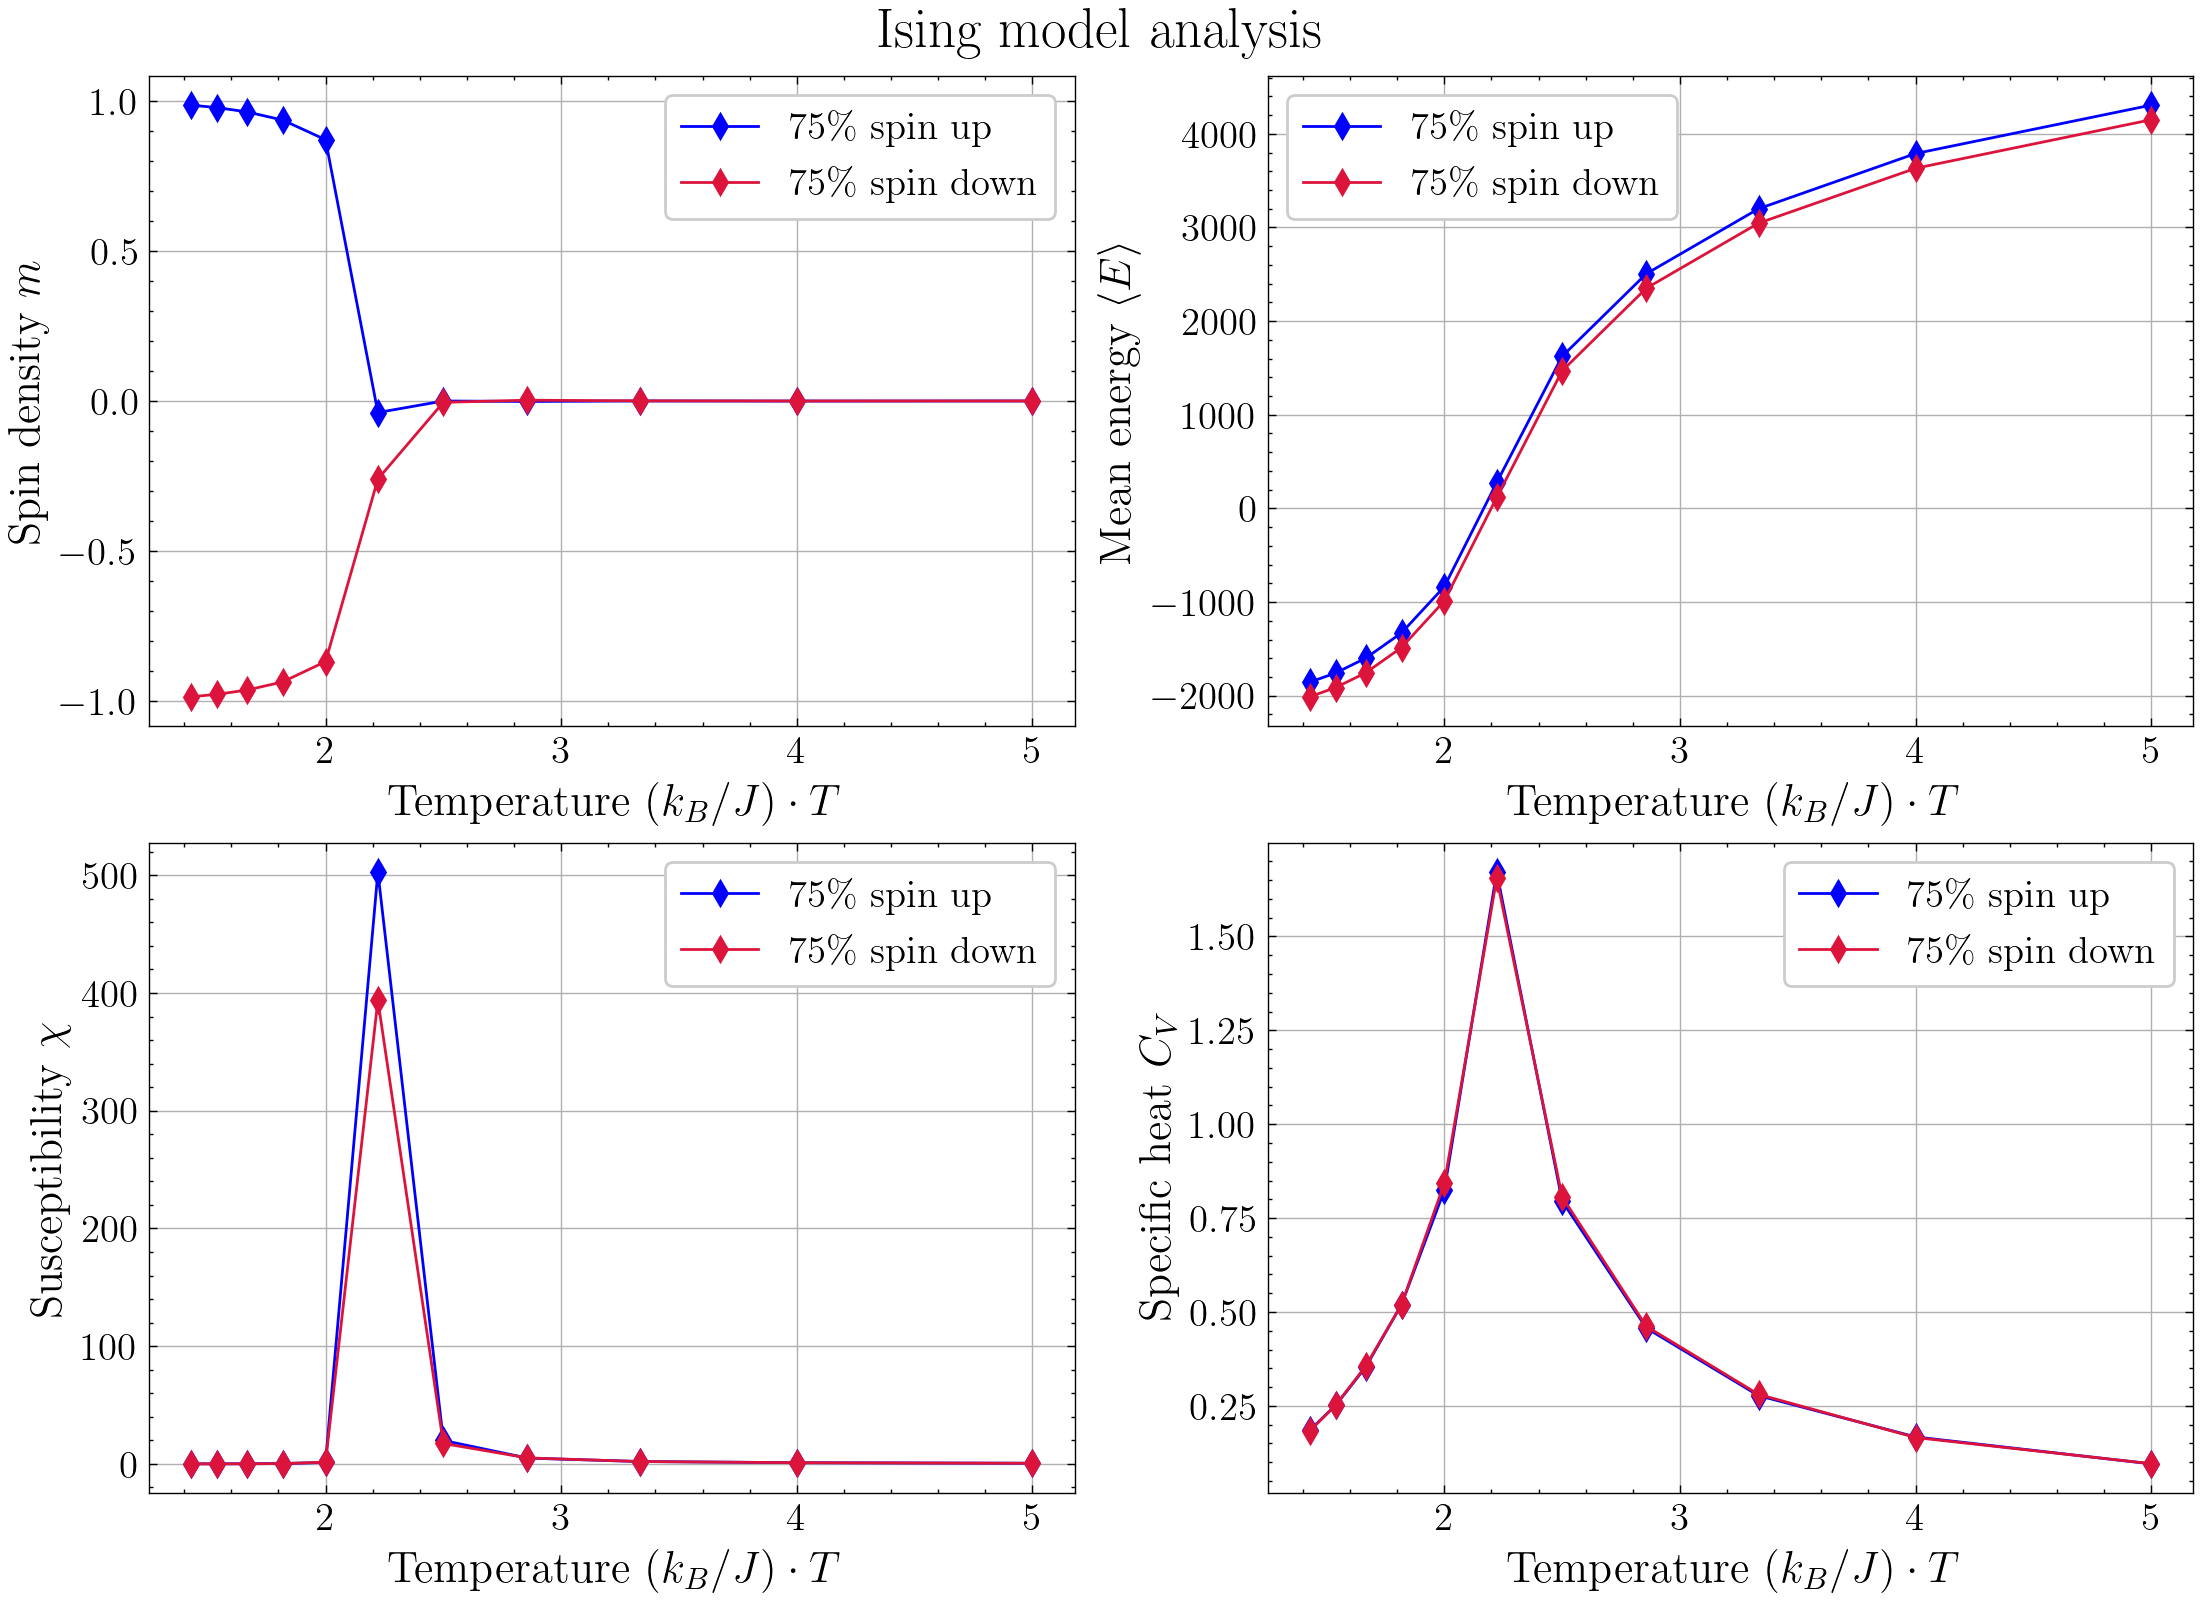
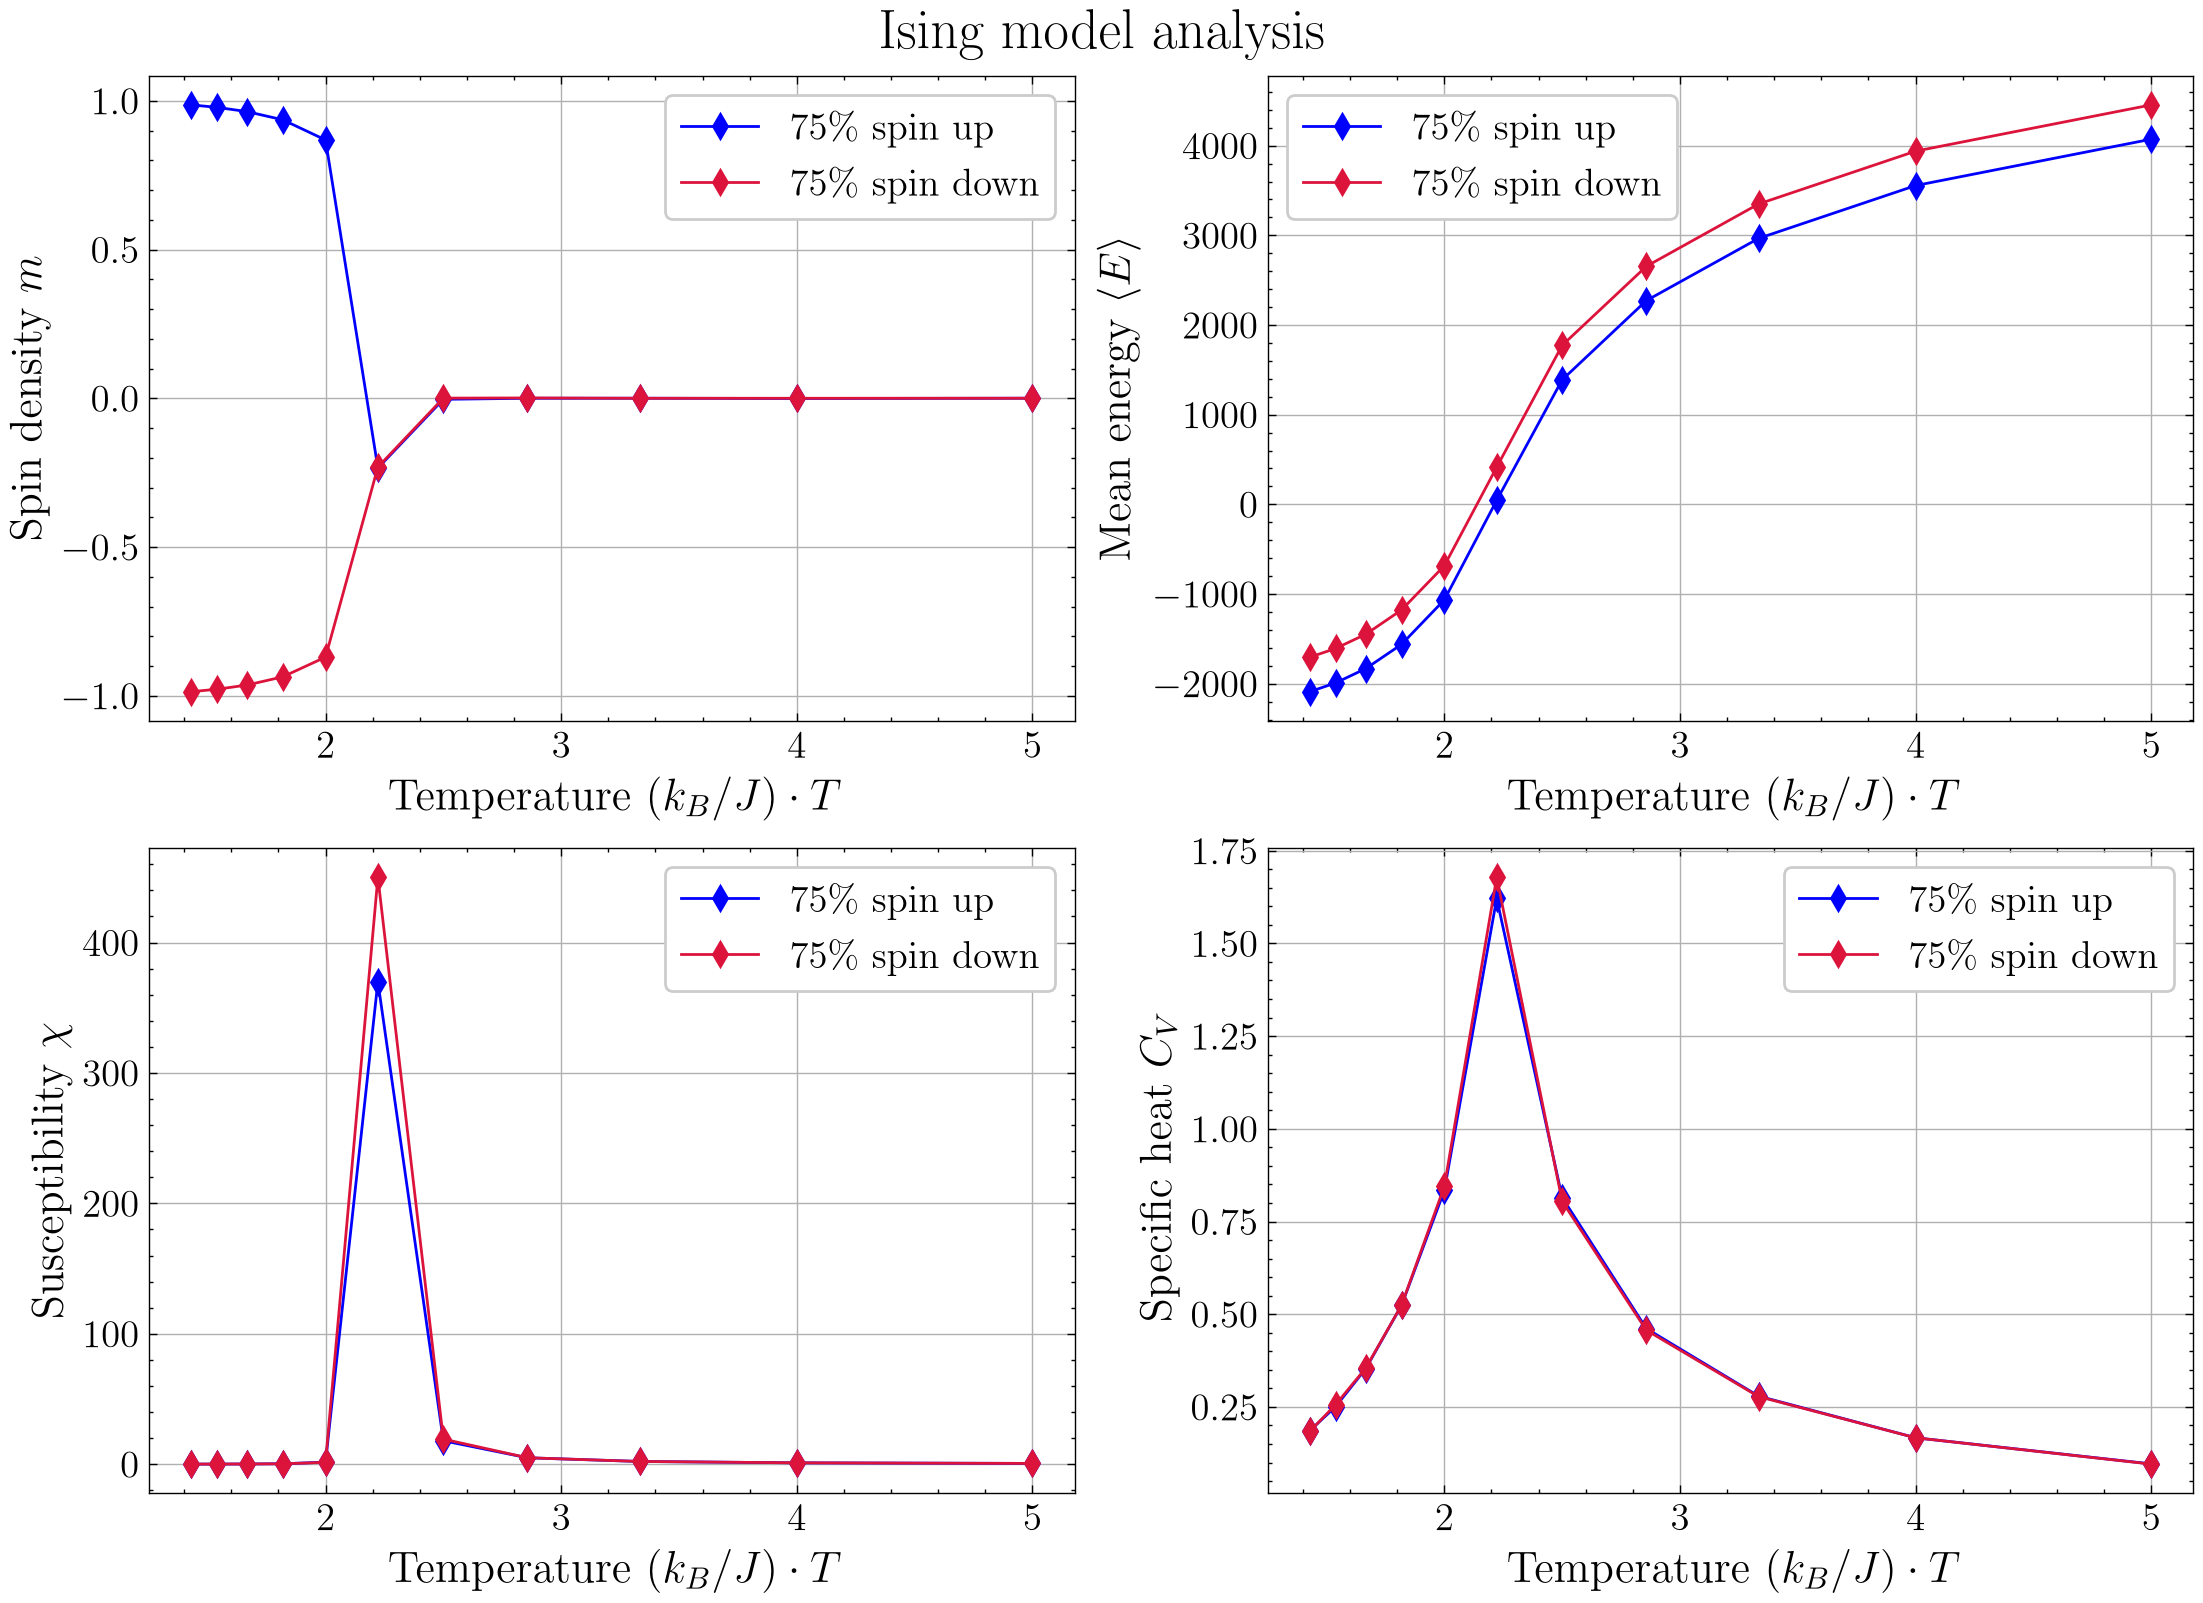
implement MCI support

diff --git a/src/lib/ising_model.py b/src/lib/ising_model.py
@@ -1,5 +1,6 @@
 import numpy as np
 from scipy.signal import correlate, correlation_lags
+from mpi4py import MPI
 
 from lib.ising_analysis import IsingResult
 from lib.lattice_2d import Lattice2D
@@ -13,7 +14,7 @@ class IsingModel:
         self.beta_j = np.asarray(beta_j, dtype=np.float64)
 
     @staticmethod
-    def _autocorr(series: np.ndarray) -> tuple[np.ndarray, np.ndarray, float]:
+    def _autocorr(series: np.ndarray) -> tuple[np.ndarray, float]:
         values = np.asarray(series, dtype=np.float64)
         if values.ndim != 1:
             raise ValueError("series must be one-dimensional")
@@ -54,10 +55,84 @@ class IsingModel:
                 metropolis_routine = routine.metropolis_open_single(self.lattice.lattice, self.time, beta_value, initial_energy)
         return metropolis_routine
 
-    def run_analysis(self, pbc: bool = False, sweep: bool = False) -> IsingResult:
+    def run_analysis(self, pbc: bool = False, sweep: bool = False,
+        comm=MPI.COMM_WORLD, seed_offset: int = 0) -> IsingResult | None:
+
         beta_values = self.beta_j
         temperatures = 1.0 / beta_values
         n_beta = beta_values.size
+
+        # 1. Distribute beta_j values evenly among processes
+        # -------------------------------------------------------------------------
+        rank = comm.Get_rank()
+        size = comm.Get_size()
+        local_B_indices = np.array_split(np.arange(n_beta), size)[rank] 
+        local_count = local_B_indices.size
+
+        # every subprocess performs caluculation based on index in beta_j array
+        # local count -> number of temperature values for each subprocess
+        local_magnetization = np.zeros(local_count, dtype=np.float64)
+        local_energy_mean = np.zeros(local_count, dtype=np.float64)
+        local_energy_std = np.zeros(local_count, dtype=np.float64)
+        local_susceptibility = np.zeros(local_count, dtype=np.float64)
+        local_heat_capacity = np.zeros(local_count, dtype=np.float64)
+        local_autocorrelation_time = np.zeros(local_count, dtype=np.float64)
+        local_sample_window = np.zeros(local_count, dtype=np.int64)
+        
+        burn_in_idx = int(self.time * 0.2) 
+        eq_length = self.time - burn_in_idx
+        local_spin_history = np.zeros((local_count, self.time), dtype=np.float64)
+        local_autocorrelation = np.zeros((local_count, eq_length), dtype=np.float64)
+        autocorrelation_lags = np.arange(eq_length, dtype=np.int64)
+
+        # 2. Each process: simulate system for for every given beta_j value
+        # -------------------------------------------------------------------------
+        for local_pos, index in enumerate(local_B_indices):
+            beta_value = beta_values[index]
+            np.random.seed(seed_offset + index)
+            print(f"Process {rank}: Calculating beta*J = {beta_value:.2f}")
+            spins, energies = self._simulate_system(beta_value, pbc, sweep)
+
+            spin_density = spins / (self.lattice.length**2)
+            local_spin_history[local_pos] = spins
+
+            eq_spins = spin_density[burn_in_idx:]
+            eq_energies = energies[burn_in_idx:]
+
+            acorr, tau_int = self._autocorr(eq_spins)
+            local_sample_window[local_pos] = len(eq_spins)
+
+            local_magnetization[local_pos] = eq_spins.mean()
+            local_energy_mean[local_pos] = eq_energies.mean()
+            local_energy_std[local_pos] = eq_energies.std()
+            local_susceptibility[local_pos] = beta_value * self.lattice.length**2 * eq_spins.var()
+            local_heat_capacity[local_pos] = (beta_value**2) * eq_energies.var() / self.lattice.length**2
+
+            local_autocorrelation[local_pos, :acorr.size] = acorr
+            local_autocorrelation_time[local_pos] = tau_int
+
+        # 3. Gather toghether the data from all processes
+        # -------------------------------------------------------------------------
+        gather_data = comm.gather(
+            {
+                "indices": np.asarray(local_B_indices, dtype=np.int64),
+                "magnetization": local_magnetization,
+                "energy_mean": local_energy_mean,
+                "energy_std": local_energy_std,
+                "susceptibility": local_susceptibility,
+                "heat_capacity": local_heat_capacity,
+                "autocorrelation_time": local_autocorrelation_time,
+                "sample_window": local_sample_window,
+                "autocorrelation": local_autocorrelation,
+                "spin_history": local_spin_history,
+            },
+            root=0,
+        )
+
+        # 4. Reconstruct result arrays from all sub-processes
+        # -------------------------------------------------------------------------
+        if rank != 0:
+            return None
 
         magnetization = np.zeros(n_beta, dtype=np.float64)
         energy_mean = np.zeros(n_beta, dtype=np.float64)
@@ -66,34 +141,21 @@ class IsingModel:
         heat_capacity = np.zeros(n_beta, dtype=np.float64)
         autocorrelation_time = np.zeros(n_beta, dtype=np.float64)
         sample_window = np.zeros(n_beta, dtype=np.int64)
-        
         spin_history = np.zeros((n_beta, self.time), dtype=np.float64)
-        burn_in_idx = int(self.time * 0.2) 
-        eq_length = self.time - burn_in_idx
         autocorrelation = np.zeros((n_beta, eq_length), dtype=np.float64)
-        autocorrelation_lags = np.arange(eq_length, dtype=np.int64)
 
-        for index, beta_value in enumerate(beta_values):
-            print(f"Calculating analysis for beta*J = {beta_value:.2f}")
-            spins, energies = self._simulate_system(beta_value, pbc, sweep)
-
-            spin_density = spins / (self.lattice.length**2)
-            spin_history[index] = spins
-
-            eq_spins = spin_density[burn_in_idx:]
-            eq_energies = energies[burn_in_idx:]
-
-            acorr, tau_int = self._autocorr(eq_spins)
-            sample_window[index] = len(eq_spins)
-
-            magnetization[index] = eq_spins.mean()
-            energy_mean[index] = eq_energies.mean()
-            energy_std[index] = eq_energies.std()
-            susceptibility[index] = beta_value * self.lattice.length**2 * eq_spins.var()
-            heat_capacity[index] = (beta_value**2) * eq_energies.var() / self.lattice.length**2
-
-            autocorrelation[index, :acorr.size] = acorr
-            autocorrelation_time[index] = tau_int
+        for payload in gather_data:
+            indices = payload["indices"]
+            for l, index in enumerate(indices):
+                magnetization[index] = payload["magnetization"][l]
+                energy_mean[index] = payload["energy_mean"][l]
+                energy_std[index] = payload["energy_std"][l]
+                susceptibility[index] = payload["susceptibility"][l]
+                heat_capacity[index] = payload["heat_capacity"][l]
+                autocorrelation_time[index] = payload["autocorrelation_time"][l]
+                sample_window[index] = payload["sample_window"][l]
+                spin_history[index] = payload["spin_history"][l]
+                autocorrelation[index] = payload["autocorrelation"][l]
 
         return IsingResult(
             temperature=temperatures,
@@ -102,12 +164,10 @@ class IsingModel:
             energy_std=energy_std,
             susceptibility=susceptibility,
             heat_capacity=heat_capacity,
-
             autocorrelation_time=autocorrelation_time,
             sample_window=sample_window,
             autocorrelation_lags=autocorrelation_lags,
             autocorrelation=autocorrelation,
-            
             spin_density=spin_history,
             time_steps=self.time,
         )

diff --git a/src/main.py b/src/main.py
@@ -4,6 +4,7 @@ matplotlib.use("Agg")
 import matplotlib.pyplot as plt
 import numpy as np
 import scienceplots
+from mpi4py import MPI
 
 from lib.ising_analysis import AnalysisResults
 from lib.ising_model import IsingModel
@@ -16,20 +17,31 @@ lattice_size = 64
 spin_probabilities = (0.25, 0.75)
 time_steps = 80_000
 beta_j = np.arange(0.20, 0.75, 0.05)
+random_seed = 42
 
 def main() -> None:
+    comm = MPI.COMM_WORLD
+    rank = comm.Get_rank()
+
+    np.random.seed(random_seed)
+    lattices = [Lattice2D(lattice_size, lattice_value) for lattice_value in spin_probabilities]
+
     results = []
-    for lattice_value in spin_probabilities:
-        lattice = Lattice2D(lattice_size, lattice_value)
+    for model_index, lattice in enumerate(lattices):
         model = IsingModel(lattice, time_steps, beta_j)
-        results.append(model.run_analysis(False, True))
+        result = model.run_analysis(False, True, comm=comm, seed_offset=model_index * 100_000)
+        if rank == 0:
+            results.append(result)
+
+    if rank != 0:
+        return
 
     isingAnalysis = AnalysisResults(results)
     summary_figure = isingAnalysis.plot_summary()
     autocorrelation_figure = isingAnalysis.plot_autocorrelation(beta_j, 2)
 
-    summary_path = "/workspace/results/ising_summary_1.png"
-    autocorrelation_path = "/workspace/results/ising_autocorrelation_1.png"
+    summary_path = "/workspace/results/ising_summary_3.png"
+    autocorrelation_path = "/workspace/results/ising_autocorrelation_3.png"
 
     summary_figure.savefig(summary_path, dpi=200)
     autocorrelation_figure.savefig(autocorrelation_path, dpi=200)

diff --git a/Readme.md b/Readme.md
@@ -22,14 +22,21 @@ Dieses Projekt bietet:
 - ipykernel
 - scienceplots
 - numba
+- mpi4py
 
 ## Nutzung
 
 Das Beispiel in `src/main.py` nutzt eine kleine Konfiguration mit zwei Startzuständen: ein Gitter mit 75% Spin up und ein Gitter mit 75% Spin down.
 Beide werden über denselben Temperaturbereich analysiert, damit der Übergang zu höheren Temperaturen sichtbar wird.
 
-Die Resultate werden als 2x2-Übersichtsplot, ein zweigeteiltes Autokorrelationsdiagramm und ein Plot für die Autokorrelationszeit erzeugt.
+Die Resultate werden als 2x2-Übersichtsplot und ein zweigeteiltes Autokorrelationsdiagramm erzeugt.
 Das Sample-Fenster wird dabei automatisch aus der Autokorrelationszeit bestimmt.
+
+Für MPI wird die unabhängige Temperaturachse auf die verfügbaren Prozesse verteilt. Starte das Skript dann mit zum Beispiel:
+
+```bash
+mpiexec -n 4 python src/main.py
+```
 
 Die wichtigsten Einstiegspunkte sind:
 